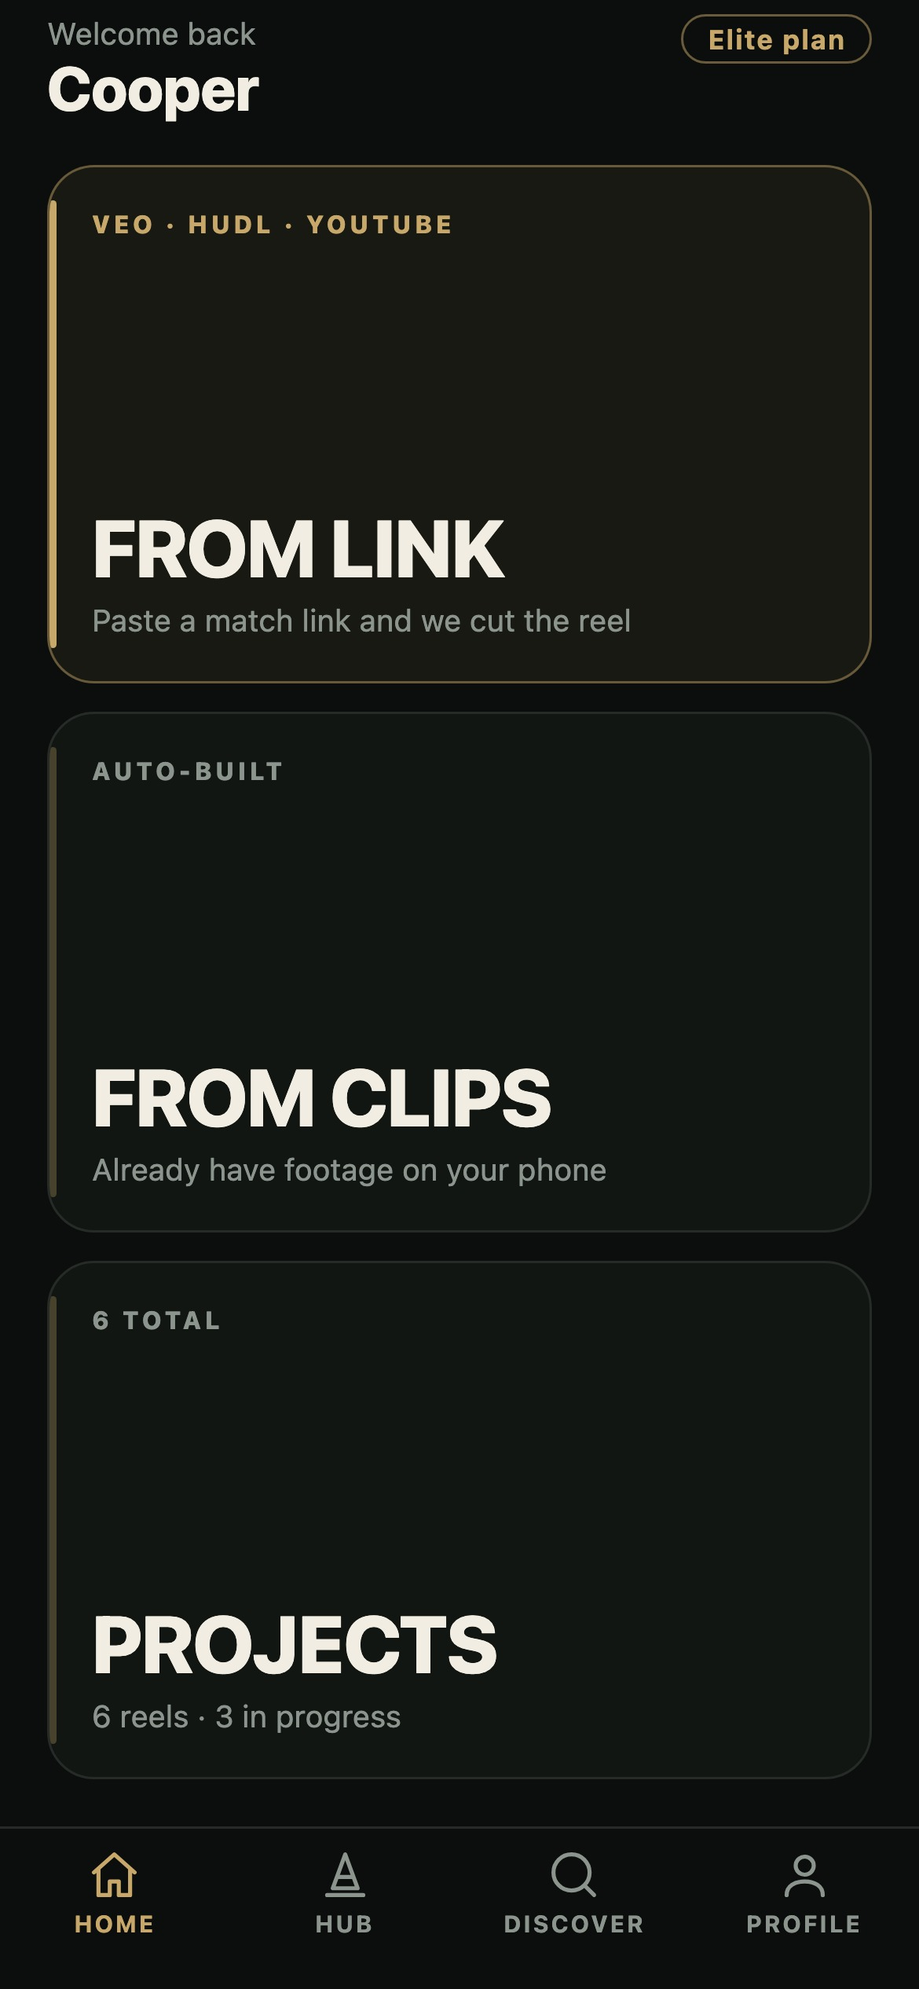
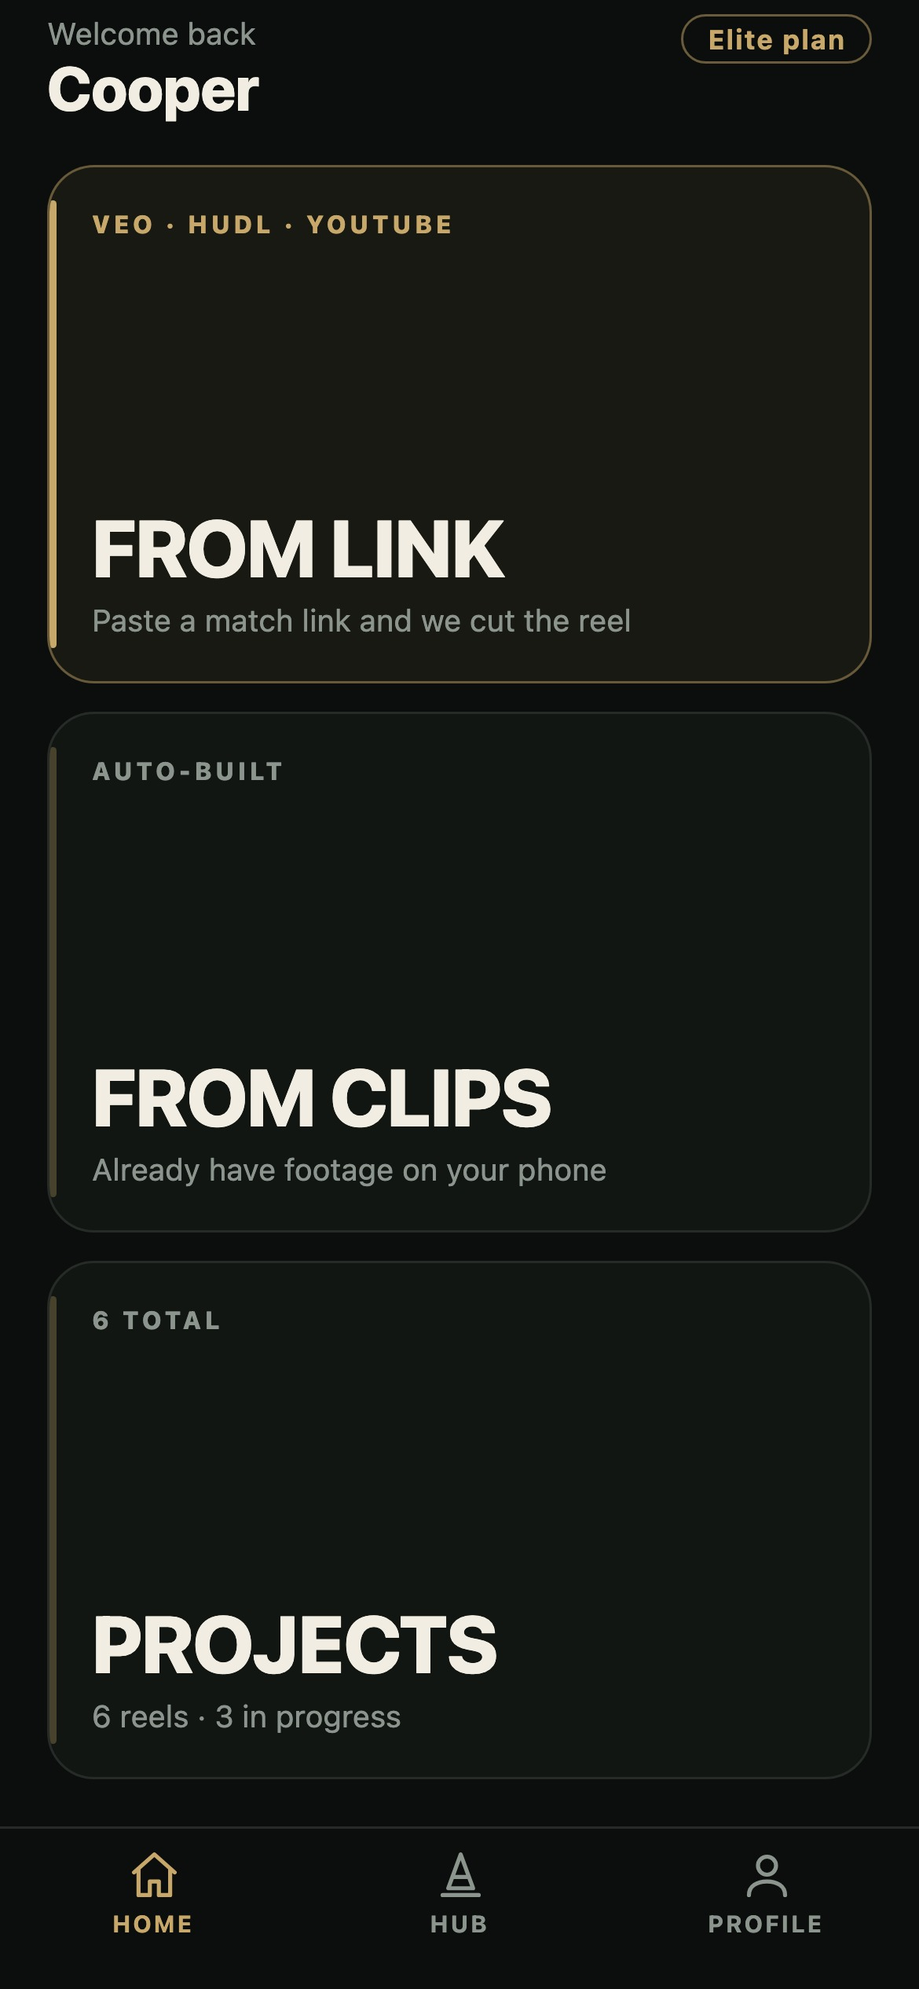
Remove discovery and messaging; split projects; update legal docs

diff --git a/privacy.html b/privacy.html
@@ -310,19 +310,18 @@
     <li><a href="#s2">What Personal Information We Collect</a></li>
     <li><a href="#s3">Why We Collect This Information</a></li>
     <li><a href="#s4">Video Processing</a></li>
-    <li><a href="#s5">Messages and In-App Communications</a></li>
-    <li><a href="#s6">How We Share Your Personal Information</a></li>
-    <li><a href="#s7">Cross-Border Disclosures</a></li>
-    <li><a href="#s8">How We Protect Your Information</a></li>
-    <li><a href="#s9">Children's Privacy</a></li>
-    <li><a href="#s10">Automated Decision-Making</a></li>
-    <li><a href="#s11">How Long We Keep Your Information</a></li>
-    <li><a href="#s12">Your Rights Under the Australian Privacy Principles</a></li>
-    <li><a href="#s13">Collection Notice Summary</a></li>
-    <li><a href="#s14">Cookies and Tracking</a></li>
-    <li><a href="#s15">Third-Party Platforms</a></li>
-    <li><a href="#s16">Changes to This Policy</a></li>
-    <li><a href="#s17">Contact and Complaints</a></li>
+    <li><a href="#s5">How We Share Your Personal Information</a></li>
+    <li><a href="#s6">Cross-Border Disclosures</a></li>
+    <li><a href="#s7">How We Protect Your Information</a></li>
+    <li><a href="#s8">Children's Privacy</a></li>
+    <li><a href="#s9">Automated Decision-Making</a></li>
+    <li><a href="#s10">How Long We Keep Your Information</a></li>
+    <li><a href="#s11">Your Rights Under the Australian Privacy Principles</a></li>
+    <li><a href="#s12">Collection Notice Summary</a></li>
+    <li><a href="#s13">Cookies and Tracking</a></li>
+    <li><a href="#s14">Third-Party Platforms</a></li>
+    <li><a href="#s15">Changes to This Policy</a></li>
+    <li><a href="#s16">Contact and Complaints</a></li>
   </ol>
       </nav>
     </aside>
@@ -346,7 +345,7 @@
     <li>Coaches and adult users</li>
     <li>Parents or guardians who interact with the app on behalf of a player</li>
   </ul>
-  <p>We do not knowingly collect personal information from anyone under 13. See Section 9 for our children's privacy practices.</p>
+  <p>We do not knowingly collect personal information from anyone under 13. See Section 8 for our children's privacy practices.</p>
 </section>
 
 <section id="s2">
@@ -371,7 +370,7 @@
     <li>Height and weight</li>
     <li>A profile photo</li>
   </ul>
-  <p>This information is stored in your profile and used to generate your in-app player ID card and to display your details in discovery features if you choose to make your profile visible to others.</p>
+  <p>This information is stored in your profile and used to generate your in-app player ID card, which is branded onto the reels you create. Your profile is not published anywhere by us and is not visible to other users.</p>
 
   <h3>2.3 Match footage and content</h3>
   <p>When you use the highlight reel feature, you provide URLs to match footage hosted on third-party platforms (such as Veo, Hudl, or YouTube) and/or player statistics you enter manually. We use footage links to download the underlying video file for processing. See Section 4 for how video processing works.</p>
@@ -399,7 +398,7 @@
     <tbody>
       <tr><td>Name, email</td><td>Account creation and communication with you</td></tr>
       <tr><td>Date of birth</td><td>Age verification before account creation; player ID card display</td></tr>
-      <tr><td>Position, club, height, weight</td><td>Player ID card; discovery features (if you opt in)</td></tr>
+      <tr><td>Position, club, height, weight</td><td>Player ID card, branded onto your reels</td></tr>
       <tr><td>Profile photo</td><td>Player ID card; highlight reel branding</td></tr>
       <tr><td>Footage links</td><td>Generating your highlight reels</td></tr>
       <tr><td>Stats</td><td>Displaying your performance data on your profile</td></tr>
@@ -434,13 +433,7 @@
 </section>
 
 <section id="s5">
-  <h2>5. Messages and In-App Communications</h2>
-  <p>Messages and direct communications between users within the app are stored <strong>on your device only</strong>. We do not transmit, access, or store message content on our servers. CAPPED has no access to your messages.</p>
-  <p>Because messages are stored on your device, their security depends on the security of your device. We recommend protecting your device with Face ID, Touch ID, or a strong PIN code.</p>
-</section>
-
-<section id="s6">
-  <h2>6. How We Share Your Personal Information</h2>
+  <h2>5. How We Share Your Personal Information</h2>
   <p>We do not sell your personal information to anyone. We share personal information only in the following circumstances:</p>
 
   <h3>Service providers</h3>
@@ -452,8 +445,8 @@
   </ul>
   <p>Where personal information is shared with service providers outside Australia, we take reasonable steps to ensure that the overseas recipient handles the information in a way that is consistent with the Australian Privacy Principles, in accordance with APP 8.</p>
 
-  <h3>Discovery and sharing features</h3>
-  <p>If you choose to make your profile visible in any discovery or marketplace feature within the app, or if you share a highlight reel via a link, the information you choose to share becomes accessible to the people you share it with. You control this — we do not make your profile public without your action.</p>
+  <h3>Sharing your reels</h3>
+  <p>When you send or post a reel yourself, whatever it contains becomes visible to whoever you send it to. CAPPED has no feed, no public profiles and no messaging — nothing you create is shared by us, and nothing you create is visible to other users of the app.</p>
 
   <h3>Legal requirements</h3>
   <p>We may disclose personal information where required by law, court order, or to cooperate with law enforcement agencies.</p>
@@ -462,13 +455,13 @@
   <p>If CAPPED is acquired by or merged with another entity, your personal information may be transferred as part of that transaction. We will notify you of any such transfer and the new entity's privacy policy before the transfer occurs.</p>
 </section>
 
-<section id="s7">
-  <h2>7. Cross-Border Disclosures</h2>
+<section id="s6">
+  <h2>6. Cross-Border Disclosures</h2>
   <p>Some of our service providers are located outside Australia. Where personal information is disclosed to overseas recipients, we ensure that reasonable steps are taken to protect it consistently with the Australian Privacy Principles (APP 8). By using the app, you acknowledge that your information may be transferred to and processed in countries outside Australia, including the United States, where data protection laws may differ from Australian law.</p>
 </section>
 
-<section id="s8">
-  <h2>8. How We Protect Your Information</h2>
+<section id="s7">
+  <h2>7. How We Protect Your Information</h2>
   <p>We implement reasonable technical and organisational safeguards, including:</p>
   <ul>
     <li>Encrypted data transmission (HTTPS/TLS)</li>
@@ -482,8 +475,8 @@
   <p>If we become aware of a data breach that is likely to result in serious harm, we will notify affected individuals and the Office of the Australian Information Commissioner (OAIC) as soon as practicable, in accordance with Part IIIC of the Privacy Act 1988 (Cth).</p>
 </section>
 
-<section id="s9">
-  <h2>9. Children's Privacy</h2>
+<section id="s8">
+  <h2>8. Children's Privacy</h2>
 
   <h3>Minimum age</h3>
   <p>CAPPED is intended for users aged 13 and over. We collect date of birth at registration before any other personal information is collected. If the entered date of birth indicates the user is under 13, account creation is blocked and no personal information is retained.</p>
@@ -503,15 +496,15 @@
   <p>The Australian Government is developing a Children's Online Privacy Code under the Privacy Act 1988 (Cth), with registration expected by December 2026. As the Code is finalised, we will update our practices and this policy to comply with its requirements, including any requirements relating to parental authorisation for users under 15.</p>
 </section>
 
-<section id="s10">
-  <h2>10. Automated Decision-Making</h2>
+<section id="s9">
+  <h2>9. Automated Decision-Making</h2>
   <p>The app uses automated tools to detect action moments in video footage and generate highlight reels. This is an automated process — the clips selected and the order in which they appear are determined by the automated system based on the footage you provide.</p>
   <p>You may review and edit your highlight reels after generation. The automated output does not affect your legal rights or create any legally significant decision about you — it is a presentation tool.</p>
   <p><strong>From December 2026:</strong> In accordance with amendments to the Privacy Act 1988 (Cth) introduced by the Privacy and Other Legislation Amendment Act 2024, we will update this section to include additional disclosures about the types of personal information used in automated decision-making and the kinds of decisions made.</p>
 </section>
 
-<section id="s11">
-  <h2>11. How Long We Keep Your Information</h2>
+<section id="s10">
+  <h2>10. How Long We Keep Your Information</h2>
   <table>
     <thead>
       <tr><th>Information</th><th>Retention period</th></tr>
@@ -529,8 +522,8 @@
   <p>After your account is deleted, we will delete or de-identify your personal information within a reasonable time, except where we are required by law to retain it.</p>
 </section>
 
-<section id="s12">
-  <h2>12. Your Rights Under the Australian Privacy Principles</h2>
+<section id="s11">
+  <h2>11. Your Rights Under the Australian Privacy Principles</h2>
   <p><strong>Access (APP 12):</strong> You may request access to the personal information we hold about you. We will respond within a reasonable time and in most cases within 30 days.</p>
   <p><strong>Correction (APP 13):</strong> You may request that we correct personal information that is inaccurate, out-of-date, incomplete, irrelevant, or misleading.</p>
   <p><strong>Deletion:</strong> While the APPs do not provide a standalone right to erasure in all cases, we will delete your personal information upon request where we are not required by law to retain it. You can delete your account from within the app, which will trigger deletion of your profile data and highlight reels.</p>
@@ -538,20 +531,20 @@
   <p>To exercise any of these rights, contact us at <a href="mailto:cappedhq@gmail.com">cappedhq@gmail.com</a> with "Privacy Request" in the subject line. We may need to verify your identity before actioning a request.</p>
 </section>
 
-<section id="s13">
-  <h2>13. Collection Notice Summary (APP 5)</h2>
+<section id="s12">
+  <h2>12. Collection Notice Summary (APP 5)</h2>
   <p>At the time we collect your personal information, we will have informed you of:</p>
   <ul>
     <li>That CAPPED (cappedhq@gmail.com) is collecting your information</li>
     <li>The purpose for which each piece of information is collected (see Section 3)</li>
-    <li>That you may access or correct your information by contacting us (see Section 12)</li>
+    <li>That you may access or correct your information by contacting us (see Section 11)</li>
     <li>That not providing certain information (such as name, email, or date of birth) will prevent account creation, as it is necessary to provide the service</li>
     <li>That footage you link will be downloaded to our processing environment and deleted after processing (see Section 4)</li>
   </ul>
 </section>
 
-<section id="s14">
-  <h2>14. Cookies and Tracking</h2>
+<section id="s13">
+  <h2>13. Cookies and Tracking</h2>
 
   <h3>14.1 The app</h3>
   <p>The CAPPED app does not use browser cookies. We do not use advertising identifiers (Apple's IDFA). We do not track your activity across other apps or websites.</p>
@@ -564,22 +557,22 @@
     <li><strong>Our host.</strong> The website is served by GitHub Pages (GitHub, Inc., United States). As with any website, the host records standard server request data, which includes your IP address and browser user-agent. We do not have access to these logs and do not use them.</li>
     <li><strong>Our form provider.</strong> If you submit your email address to be notified when CAPPED launches, that form is processed by Formspree (United States). Formspree receives the email address you enter, together with the technical request data inherent in any web submission. We use the address solely to send one launch announcement — see Section 3 — and you may ask us to remove it at any time.</li>
   </ul>
-  <p>Both are overseas recipients; see <a href="#s7">Cross-Border Disclosures</a>.</p>
+  <p>Both are overseas recipients; see <a href="#s6">Cross-Border Disclosures</a>.</p>
   <p>If we ever add analytics or advertising technology to the website, we will update this section and the "Last updated" date before that technology goes live, not afterwards.</p>
 </section>
 
-<section id="s15">
-  <h2>15. Third-Party Platforms</h2>
+<section id="s14">
+  <h2>14. Third-Party Platforms</h2>
   <p>When you link footage from Veo, Hudl, YouTube, or any other third-party platform, that platform's own terms of service and privacy policy apply to your use of that platform. We are not responsible for how third-party platforms handle your data. We only access footage from the URL you provide in order to generate your highlight reel.</p>
 </section>
 
-<section id="s16">
-  <h2>16. Changes to This Policy</h2>
+<section id="s15">
+  <h2>15. Changes to This Policy</h2>
   <p>We may update this policy from time to time. We will update the "Last updated" date at the top. For material changes we will notify you within the app before the change takes effect. Continuing to use the app after an updated policy takes effect constitutes acceptance of the updated policy.</p>
 </section>
 
-<section id="s17">
-  <h2>17. Contact and Complaints</h2>
+<section id="s16">
+  <h2>16. Contact and Complaints</h2>
   <p><strong>CAPPED HQ</strong><br>
   Adam Shaker &middot; ABN 71 564 110 566<br>
   Queensland, Australia<br>

diff --git a/terms.html b/terms.html
@@ -314,12 +314,11 @@
     <li><a href="#s6">Acceptable Use</a></li>
     <li><a href="#s7">Australian Consumer Law Rights</a></li>
     <li><a href="#s8">Disclaimers and Limitation of Liability</a></li>
-    <li><a href="#s9">Messages and Communications Within the App</a></li>
-    <li><a href="#s10">Privacy</a></li>
-    <li><a href="#s11">Intellectual Property</a></li>
-    <li><a href="#s12">Changes to These Terms</a></li>
-    <li><a href="#s13">Governing Law and Disputes</a></li>
-    <li><a href="#s14">Contact</a></li>
+    <li><a href="#s9">Privacy</a></li>
+    <li><a href="#s10">Intellectual Property</a></li>
+    <li><a href="#s11">Changes to These Terms</a></li>
+    <li><a href="#s12">Governing Law and Disputes</a></li>
+    <li><a href="#s13">Contact</a></li>
     <li><a href="#health">Health and Training Disclaimer</a></li>
   </ol>
       </nav>
@@ -349,10 +348,7 @@
   </ul>
   <p>By registering as a user aged 13–17, you confirm that a parent or guardian has given this permission.</p>
 
-  <h3>Coaches and adult users</h3>
-  <p>Coaches and other adult users agree to these Terms for themselves. If a coach creates content involving a player, the coach is responsible for having the right to upload that content and for complying with any applicable law, including child safety legislation.</p>
-
-  <h3>Account security</h3>
+    <h3>Account security</h3>
   <p>You are responsible for keeping your account credentials confidential and for all activity that occurs under your account. Notify us immediately if you suspect unauthorised access.</p>
 </section>
 
@@ -453,21 +449,12 @@
 </section>
 
 <section id="s9">
-  <h2>9. Messages and Communications Within the App</h2>
-  <p>Messages and other direct communications between users within the app are stored on your device only. CAPPED does not transmit, access, or store message content on our servers. We are not responsible for the content of user-to-user messages. You are responsible for the messages you send and for ensuring they comply with these Terms and applicable law.</p>
-
-  <h3>Reporting and blocking</h3>
-  <p>Because messages stay on your device, we cannot read them or moderate them proactively. Every conversation and player profile has a &ldquo;&ctdot;&rdquo; button offering <strong>Report</strong> and <strong>Block</strong>. Reporting records the account and the reason; blocking removes that person from your messages and from Discover, and can be undone from the Messages screen.</p>
-  <p>If you are under 18 and an adult contacts you in a way that makes you uncomfortable, tell a parent, guardian or coach as well as blocking them. For anything urgent, email <a href="mailto:cappedhq@gmail.com">cappedhq@gmail.com</a>. In an emergency, contact the police on 000.</p>
-</section>
-
-<section id="s10">
-  <h2>10. Privacy</h2>
+  <h2>9. Privacy</h2>
   <p>Our Privacy Policy explains how we collect, use, and protect your personal information. By using the app you acknowledge and agree to our Privacy Policy, which is available within the app's legal section and at the URL provided in App Store Connect. We handle personal information in accordance with the Australian Privacy Principles under the Privacy Act 1988 (Cth).</p>
 </section>
 
-<section id="s11">
-  <h2>11. Intellectual Property</h2>
+<section id="s10">
+  <h2>10. Intellectual Property</h2>
 
   <h3>Our content</h3>
   <p>The CAPPED name, logo, app design, and all content created by us are owned by or licensed to CAPPED and are protected by copyright and other intellectual property laws. You may not copy, reproduce, modify, or distribute our content without our prior written consent.</p>
@@ -476,19 +463,19 @@
   <p>If you provide feedback or suggestions about the app, you grant us a perpetual, royalty-free licence to use that feedback to improve the app without any obligation to you.</p>
 </section>
 
-<section id="s12">
-  <h2>12. Changes to These Terms</h2>
+<section id="s11">
+  <h2>11. Changes to These Terms</h2>
   <p>We may update these Terms from time to time. We will update the "Last updated" date at the top. For material changes we will notify you within the app. If you continue to use the app after the updated Terms take effect, you accept the updated Terms. If you do not accept the changes, you may close your account.</p>
 </section>
 
-<section id="s13">
-  <h2>13. Governing Law and Disputes</h2>
+<section id="s12">
+  <h2>12. Governing Law and Disputes</h2>
   <p>These Terms are governed by the laws of Queensland, Australia. Any dispute arising from these Terms or your use of the app will be subject to the exclusive jurisdiction of the courts of Queensland, Australia, except where applicable law provides otherwise.</p>
   <p>If you have a complaint about the app, please contact us first at <a href="mailto:cappedhq@gmail.com">cappedhq@gmail.com</a> so we have the opportunity to resolve it.</p>
 </section>
 
-<section id="s14">
-  <h2>14. Contact</h2>
+<section id="s13">
+  <h2>13. Contact</h2>
   <p><strong>CAPPED</strong><br>
   Email: <a href="mailto:cappedhq@gmail.com">cappedhq@gmail.com</a></p>
   <p>For privacy-related requests: <a href="mailto:cappedhq@gmail.com">cappedhq@gmail.com</a><br>

diff --git a/index.html b/index.html
@@ -698,7 +698,7 @@
     <div class="chips">
       <div class="chip"><b>27</b> drill sessions</div>
       <div class="chip"><b>AI</b> highlight detection</div>
-      <div class="chip"><b>Scouts</b> browse free</div>
+      <div class="chip"><b>2</b> formats every reel</div>
     </div>
   </div>
 </div>
@@ -823,19 +823,19 @@
             </div>
           </div>
 
-          <div class="shot" data-shot data-shot-title="Coaches browse you and message you"
+          <div class="shot" data-shot data-shot-title="Still building, and ready to send"
                role="group" aria-roledescription="slide" aria-label="Screen 5 of 6">
             <div class="phone">
               <div class="phone-screen">
-                <img src="assets/shots/05-coaches.jpg" width="560" height="1212"
+                <img src="assets/shots/05-projects.jpg" width="560" height="1212"
                      loading="lazy" decoding="async"
-                     alt="The Discover feed listing reels from players nearby, each card showing the player's name, position, age group and city above a playable highlight video.">
+                     alt="The Projects screen with two large cards: In progress, counting the reels still being built, and Done, counting the reels that are ready to watch or send.">
               </div>
             </div>
             <div class="shot-cap">
               <span class="shot-n" aria-hidden="true">05 / 06</span>
-              <h3>Coaches browse you and message you</h3>
-              <p>Your reel lands in Discover, filtered by position, age group and area.</p>
+              <h3>Still building, and ready to send</h3>
+              <p>Reels in production sit apart from the ones a scout can watch today.</p>
             </div>
           </div>
 
@@ -878,7 +878,7 @@
             <button class="shots-dot" type="button" data-shots-dot aria-controls="shots-track"
                     aria-label="Show screen 4: A scout-ready reel in minutes"><i aria-hidden="true"></i></button>
             <button class="shots-dot" type="button" data-shots-dot aria-controls="shots-track"
-                    aria-label="Show screen 5: Coaches browse you and message you"><i aria-hidden="true"></i></button>
+                    aria-label="Show screen 5: Still building, and ready to send"><i aria-hidden="true"></i></button>
             <button class="shots-dot" type="button" data-shots-dot aria-controls="shots-track"
                     aria-label="Show screen 6: Pro drills, Elite nutrition and gym"><i aria-hidden="true"></i></button>
           </div>
@@ -1100,8 +1100,8 @@
       <div class="card feat"><span class="ic">⚽</span><h3>Training sessions</h3><p>Weekly drill plans built around your position and level.</p></div>
       <div class="card feat"><span class="ic">🥗</span><h3>Nutrition plan</h3><p>Morning to dinner, snacks included, with a grocery list and water tracker.</p></div>
       <div class="card feat"><span class="ic">🏋</span><h3>Gym plan</h3><p>Footballer-specific strength and conditioning, tilted to your position.</p></div>
-      <div class="card feat"><span class="ic">🔍</span><h3>Coach discovery</h3><p>Coaches browse by position, age group and area — free, always.</p></div>
-      <div class="card feat"><span class="ic">💬</span><h3>Direct messaging</h3><p>Coaches reach out in-app. No DMs lost in a club inbox.</p></div>
+      <div class="card feat"><span class="ic">🗂</span><h3>Clip organiser</h3><p>Reels still building kept apart from the ones ready to send.</p></div>
+      <div class="card feat"><span class="ic">🪪</span><h3>Player card</h3><p>Position, age, club and photo — set once, branded onto every reel.</p></div>
     </div>
   </div>
 </section>
